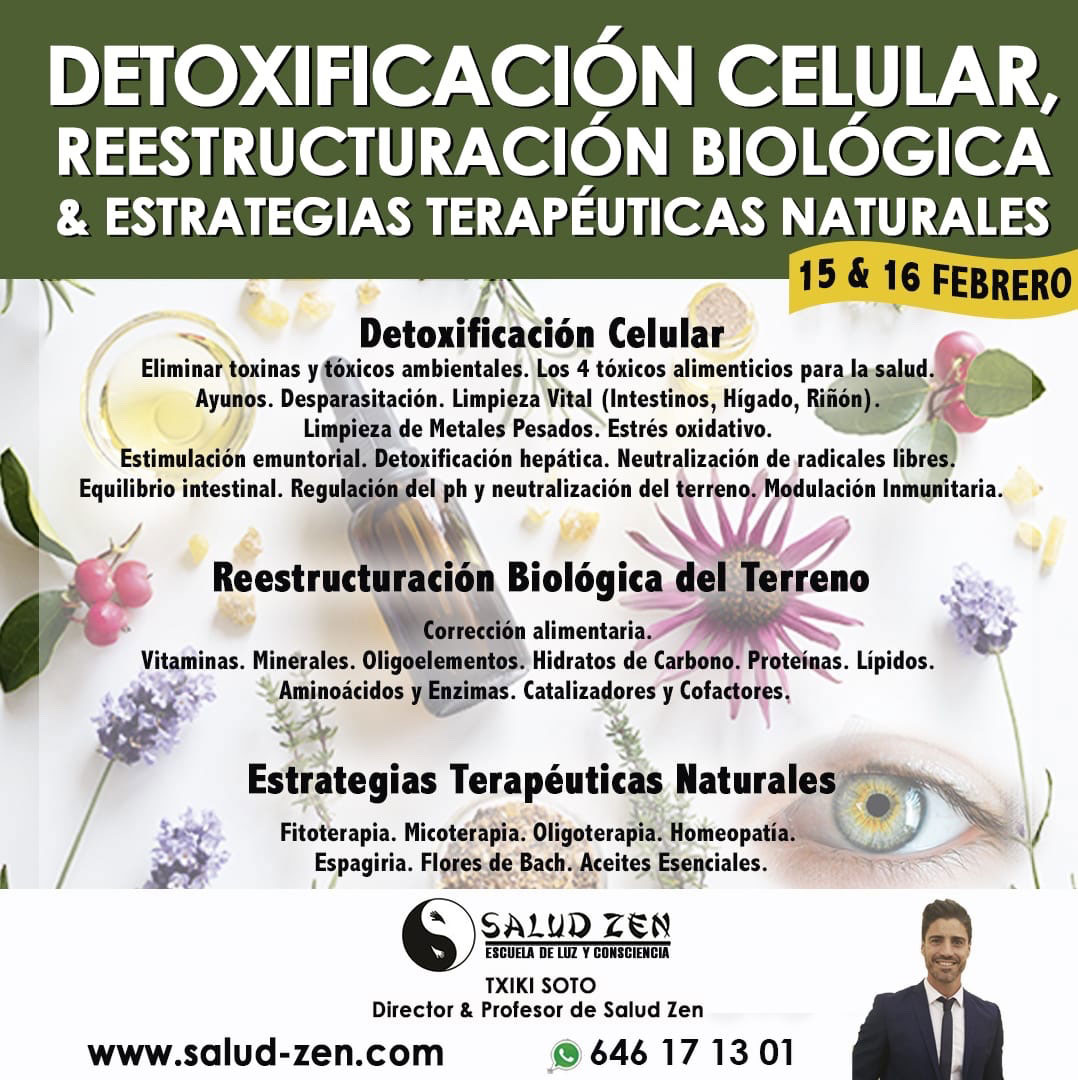
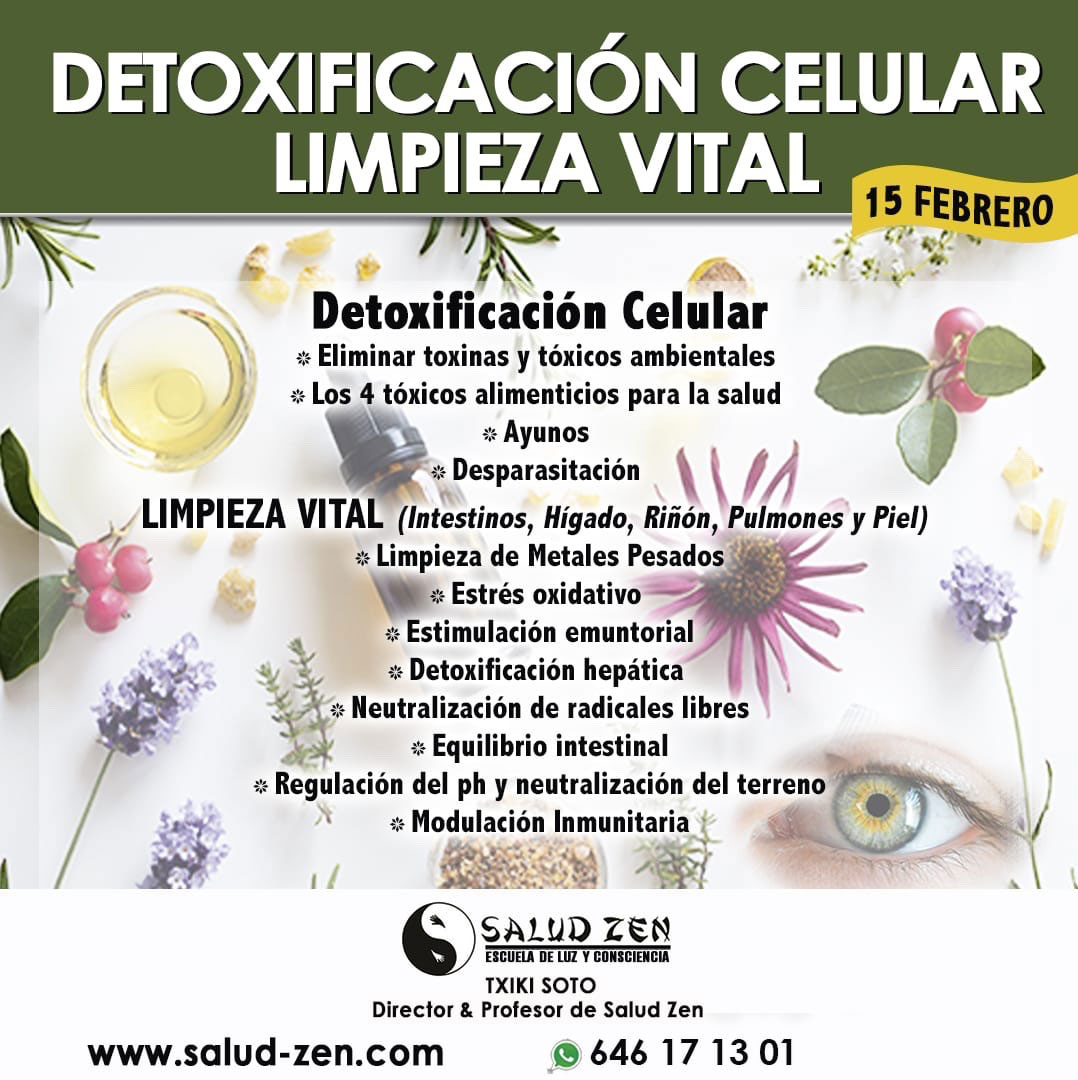
update event

diff --git a/_site/cursos/index.html b/_site/cursos/index.html
@@ -273,7 +273,7 @@
                                  <div class="position-center">
                                    <h2>Curso de Salud-Enfermedad</h2>
                                    <p>
-                                     <i class="ion-clock"> &nbsp;&nbsp;Sábado y Domingo de 10 a 14 horas</i>
+                                     <i class="ion-clock"> &nbsp;&nbsp;Sábado 10-18h y Domingo 10-14h</i>
                                         &nbsp;&nbsp;&nbsp;&nbsp;&nbsp;
                                      <i class="fa fa-map-marker">&nbsp;&nbsp;C/ Castellón de la Plana, 26 Arroyomolinos</i>
                                    </p>
@@ -374,7 +374,7 @@
                        <li>
                          <a href="http://localhost:4000/evento/2020/02/15/curso-detoxificacion.html" class="bold">
                            
-                             <img src="http://localhost:4000/img/eventos/Detoxificacion_prop.jpg" alt="Curso de Detoxificación Celular, Reestructuración Biológica & Estrategias Terapéuticas Naturales">
+                             <img src="http://localhost:4000/img/eventos/Detoxificacion_prop.jpg" alt="Detoxificación Celular, Limpieza Vital">
                            
                              <div class="overly">
                               <div class="position-left">
@@ -387,7 +387,7 @@
                                  <div class="position-center">
                                    <h2>Curso de Detoxificación Celular</h2>
                                    <p>
-                                     <i class="ion-clock"> &nbsp;&nbsp;Sábado y Domingo de 10 a 14 horas</i>
+                                     <i class="ion-clock"> &nbsp;&nbsp;Sábado 10-18h</i>
                                         &nbsp;&nbsp;&nbsp;&nbsp;&nbsp;
                                      <i class="fa fa-map-marker">&nbsp;&nbsp;C/ Castellón de la Plana, 26 Arroyomolinos</i>
                                    </p>
@@ -437,31 +437,6 @@
                   
 
                   
-              <tr>
-
-
-                  <div >
-
-                    <ul >
-                      <li>
-                            <div class="position-center" style="text-align: left;font-size:160%;">
-                              <td style="text-align: left;font-size:120%;">
-                                17
-                                  
-                                    Ene
-                                         
-                                     </td>
-                                     <td style="text-align: left;font-size:140%;">
-                                - <a href="http://localhost:4000/evento/2020/01/17/conferencia-el-ayuno.html" class="bold"  style="text-decoration: none;color: inherit;">
-                                    Conferencia-El Ayuno
-                                  </a>
-                              </td>
-                               </div><!--position-center-->
-                      </li>
-                    </ul>
-                  </div>
-                </tr>
-                
 
               
 
@@ -469,31 +444,6 @@
                   
 
                   
-              <tr>
-
-
-                  <div >
-
-                    <ul >
-                      <li>
-                            <div class="position-center" style="text-align: left;font-size:160%;">
-                              <td style="text-align: left;font-size:120%;">
-                                25
-                                  
-                                    Ene
-                                         
-                                     </td>
-                                     <td style="text-align: left;font-size:140%;">
-                                - <a href="http://localhost:4000/evento/2020/01/25/curso-master-salud-natural.html" class="bold"  style="text-decoration: none;color: inherit;">
-                                    Máster en Salud Natural
-                                  </a>
-                              </td>
-                               </div><!--position-center-->
-                      </li>
-                    </ul>
-                  </div>
-                </tr>
-                
 
               
 
@@ -501,31 +451,6 @@
                   
 
                   
-              <tr>
-
-
-                  <div >
-
-                    <ul >
-                      <li>
-                            <div class="position-center" style="text-align: left;font-size:160%;">
-                              <td style="text-align: left;font-size:120%;">
-                                25
-                                  
-                                    Ene
-                                         
-                                     </td>
-                                     <td style="text-align: left;font-size:140%;">
-                                - <a href="http://localhost:4000/evento/2020/01/25/curso-salud-enfermedad.html" class="bold"  style="text-decoration: none;color: inherit;">
-                                    Curso de Salud-Enfermedad
-                                  </a>
-                              </td>
-                               </div><!--position-center-->
-                      </li>
-                    </ul>
-                  </div>
-                </tr>
-                
 
               
 

diff --git a/_site/evento/2020/02/15/curso-detoxificacion.html b/_site/evento/2020/02/15/curso-detoxificacion.html
@@ -4,7 +4,7 @@
 
     <meta charset="utf-8">
 <meta http-equiv="X-UA-Compatible" content="IE=edge">
-<title>Curso de Detoxificación Celular, Reestructuración Biológica & Estrategias Terapéuticas Naturales</title>
+<title>Detoxificación Celular, Limpieza Vital</title>
 <meta name="description" content="">
 <meta name="viewport" content="width=device-width, initial-scale=1">
 
@@ -135,12 +135,12 @@
       <div class="row">
         <div>
           <div class="block">
-            <h1>Curso de Detoxificación Celular, Reestructuración Biológica & Estrategias Terapéuticas Naturales</h1>
+            <h1>Detoxificación Celular, Limpieza Vital</h1>
             <div class="post-info-wrapper">
-              <p class="italic">El <span class="bold">15 y 16 de Febrero de 2020</span> de <span class="bold">Sábado y Domingo de 10 a 14 horas</span> en C/ Castellón de la Plana, 26 Arroyomolinos</p>
+              <p class="italic">El <span class="bold">15 de Febrero de 2020</span> de <span class="bold">Sábado 10-18h</span> en C/ Castellón de la Plana, 26 Arroyomolinos</p>
             </div>
             <hr />
-              <img src="http://localhost:4000/img/eventos/Detoxificacion.jpg" alt="Curso de Detoxificación Celular, Reestructuración Biológica & Estrategias Terapéuticas Naturales">
+              <img src="http://localhost:4000/img/eventos/Detoxificacion.jpg" alt="Detoxificación Celular, Limpieza Vital">
 
               
             <p>
@@ -148,7 +148,7 @@
             
               
               <p>Si estás interesado, no olvides
-            <a href="mailto:estilodevida@salud-zen.com?Subject=Reserva%20de%20Plaza: Curso de Detoxificación Celular 15-2-2020&body=Me gustaría reservar una plaza para: Curso de Detoxificación Celular, Reestructuración Biológica & Estrategias Terapéuticas Naturales del 15 y 16 de Febrero de 2020. Mis datos Personales son:%0A%0A   -Nombre:%0A%0A   -Apellidos:%0A%0A   -Fecha de nacimiento:%0A%0A   -Teléfono:%0A%0A    -Correo Electrónico:%0A%0A">reservar tu plaza</a>.
+            <a href="mailto:estilodevida@salud-zen.com?Subject=Reserva%20de%20Plaza: Curso de Detoxificación Celular 15-2-2020&body=Me gustaría reservar una plaza para: Detoxificación Celular, Limpieza Vital del 15 de Febrero de 2020. Mis datos Personales son:%0A%0A   -Nombre:%0A%0A   -Apellidos:%0A%0A   -Fecha de nacimiento:%0A%0A   -Teléfono:%0A%0A    -Correo Electrónico:%0A%0A">reservar tu plaza</a>.
             </p>
             
             <p>Si tienes alguna consulta, ponte en <a href="http://localhost:4000/contact">contacto</a> con nosotros</p>

diff --git a/_site/recetas/index.html b/_site/recetas/index.html
@@ -2085,7 +2085,7 @@
           
               
               <div>
-                  <p><a href="http://localhost:4000/postres/2019/11/25/tarta-chocolate.html" class="bold" target="_blank"><span></span> Tarta de Chocolate y Avellanas</a></p>
+                  <p><a href="http://localhost:4000/postres/2019/11/24/tarta-chocolate.html" class="bold" target="_blank"><span></span> Tarta de Chocolate y Avellanas</a></p>
               </div>
               
           
@@ -2603,7 +2603,7 @@
             <div id="testimonial-slider4" class="owl-carousel">
               
               <div>
-                <a href="http://localhost:4000/postres/2019/11/25/tarta-chocolate.html" class="bold" target="_blank">
+                <a href="http://localhost:4000/postres/2019/11/24/tarta-chocolate.html" class="bold" target="_blank">
                   <p><span></span> Tarta de Chocolate y Avellanas</p>
                   <img src="/img/recetas/tartaChocolateAvellanas.jpg" alt="Receta - Tarta de Chocolate y Avellanas">
                 </a>

diff --git a/_site/index.html b/_site/index.html
@@ -544,10 +544,10 @@
                 <div class="clients-logo-img">
                   <a href="http://localhost:4000//evento/2020/02/15/curso-detoxificacion.html" class="bold">
                     
-                      <img src="http://localhost:4000/img/eventos/Detoxificacion_prop.jpg" width="167" height="119" alt="Curso de Detoxificación Celular, Reestructuración Biológica & Estrategias Terapéuticas Naturales">
+                      <img src="http://localhost:4000/img/eventos/Detoxificacion_prop.jpg" width="167" height="119" alt="Detoxificación Celular, Limpieza Vital">
                     
 
-                    <p>Curso de Detoxificación Celular <br>15 y 16 -02-2020</p>
+                    <p>Curso de Detoxificación Celular <br>15-02-2020</p>
                   </a>
                 </div>
 

diff --git a/_site/index2.html b/_site/index2.html
@@ -350,10 +350,10 @@
                 <div class="clients-logo-img">
                   <a href="http://localhost:4000//evento/2020/02/15/curso-detoxificacion.html" class="bold">
                     
-                      <img src="http://localhost:4000/img/eventos/Detoxificacion_prop.jpg" width="167" height="119" alt="Curso de Detoxificación Celular, Reestructuración Biológica & Estrategias Terapéuticas Naturales">
+                      <img src="http://localhost:4000/img/eventos/Detoxificacion_prop.jpg" width="167" height="119" alt="Detoxificación Celular, Limpieza Vital">
                     
 
-                    <p>Curso de Detoxificación Celular <br>15 y 16 -02-2020</p>
+                    <p>Curso de Detoxificación Celular <br>15-02-2020</p>
                   </a>
                 </div>
 

diff --git a/_site/index_0307.html b/_site/index_0307.html
@@ -350,10 +350,10 @@
                 <div class="clients-logo-img">
                   <a href="http://localhost:4000//evento/2020/02/15/curso-detoxificacion.html" class="bold">
                     
-                      <img src="http://localhost:4000/img/eventos/Detoxificacion_prop.jpg" width="167" height="119" alt="Curso de Detoxificación Celular, Reestructuración Biológica & Estrategias Terapéuticas Naturales">
+                      <img src="http://localhost:4000/img/eventos/Detoxificacion_prop.jpg" width="167" height="119" alt="Detoxificación Celular, Limpieza Vital">
                     
 
-                    <p>Curso de Detoxificación Celular <br>15 y 16 -02-2020</p>
+                    <p>Curso de Detoxificación Celular <br>15-02-2020</p>
                   </a>
                 </div>
 

diff --git a/_site/index_copia.html b/_site/index_copia.html
@@ -350,10 +350,10 @@
                 <div class="clients-logo-img">
                   <a href="http://localhost:4000//evento/2020/02/15/curso-detoxificacion.html" class="bold">
                     
-                      <img src="http://localhost:4000/img/eventos/Detoxificacion_prop.jpg" width="167" height="119" alt="Curso de Detoxificación Celular, Reestructuración Biológica & Estrategias Terapéuticas Naturales">
+                      <img src="http://localhost:4000/img/eventos/Detoxificacion_prop.jpg" width="167" height="119" alt="Detoxificación Celular, Limpieza Vital">
                     
 
-                    <p>Curso de Detoxificación Celular <br>15 y 16 -02-2020</p>
+                    <p>Curso de Detoxificación Celular <br>15-02-2020</p>
                   </a>
                 </div>
 

diff --git a/_site/evento/2020/01/25/curso-salud-enfermedad.html b/_site/evento/2020/01/25/curso-salud-enfermedad.html
@@ -137,7 +137,7 @@
           <div class="block">
             <h1>Curso de Salud-Enfermedad & Nutrición Holística</h1>
             <div class="post-info-wrapper">
-              <p class="italic">El <span class="bold">25 y 26 de Enero de 2020</span> de <span class="bold">Sábado y Domingo de 10 a 14 horas</span> en C/ Castellón de la Plana, 26 Arroyomolinos</p>
+              <p class="italic">El <span class="bold">25 y 26 de Enero de 2020</span> de <span class="bold">Sábado 10-18h y Domingo 10-14h</span> en C/ Castellón de la Plana, 26 Arroyomolinos</p>
             </div>
             <hr />
               <img src="http://localhost:4000/img/eventos/SaludEnfermedad.jpg" alt="Curso de Salud-Enfermedad & Nutrición Holística">

diff --git a/_site/js/calendar/fullcalendar2.js b/_site/js/calendar/fullcalendar2.js
@@ -842,9 +842,9 @@
          {
              "allDay": "false",
              "name": "Detoxificación Celula ...",
-             "title": "Detoxificación Celular, Reestructuración Biológica & Estrategias Terapéuticas Naturales",
+             "title": "Detoxificación Celular, Limpieza Vital",
              "id": "C0001",
-             "end": "2020-02-16 14:00:00",
+             "end": "2020-02-15 18:00:00",
              "start": "2020-02-15 10:00:00",
              "className": "terapias",
              "url":"../evento/2020/02/15/curso-detoxificacion.html"

diff --git a/js/calendar/fullcalendar2.js b/js/calendar/fullcalendar2.js
@@ -842,9 +842,9 @@
          {
              "allDay": "false",
              "name": "Detoxificación Celula ...",
-             "title": "Detoxificación Celular, Reestructuración Biológica & Estrategias Terapéuticas Naturales",
+             "title": "Detoxificación Celular, Limpieza Vital",
              "id": "C0001",
-             "end": "2020-02-16 14:00:00",
+             "end": "2020-02-15 18:00:00",
              "start": "2020-02-15 10:00:00",
              "className": "terapias",
              "url":"../evento/2020/02/15/curso-detoxificacion.html"

diff --git a/_site/postres/2019/11/24/tarta-chocolate.html b/_site/postres/2019/11/24/tarta-chocolate.html
@@ -139,7 +139,7 @@
                 <div class="block">
                   <h1>Tarta de Chocolate y Avellanas</h1>
                   <div class="post-info-wrapper">
-                    <p class="italic">Por <span class="bold">Salud-Zen</span> el <span class="bold"> 25 Nov, 2019</span></p>
+                    <p class="italic">Por <span class="bold">Salud-Zen</span> el <span class="bold"> 24 Nov, 2019</span></p>
                   </div>
             </div>
             </div>

diff --git a/_posts/calendario/2020-02-15-curso-detoxificacion.md b/_posts/calendario/2020-02-15-curso-detoxificacion.md
@@ -4,13 +4,13 @@ categories: evento
 public: yes
 public2: yes
 name: Curso de Detoxificación Celular
-title: Curso de Detoxificación Celular, Reestructuración Biológica & Estrategias Terapéuticas Naturales
+title: Detoxificación Celular, Limpieza Vital
 subtitle:
 date: 15-02-2020
 dateVisible: 2020-02-15 23:00:00
-date_text: 15 y 16 de Febrero de 2020
-date_imparticion: 15 y 16 -02-2020
-horario: Sábado y Domingo de 10 a 14 horas
+date_text: 15 de Febrero de 2020
+date_imparticion: 15-02-2020
+horario: Sábado 10-18h
 localizacion: C/ Castellón de la Plana, 26 Arroyomolinos
 author: Salud-Zen
 image: img/eventos/Detoxificacion.jpg
